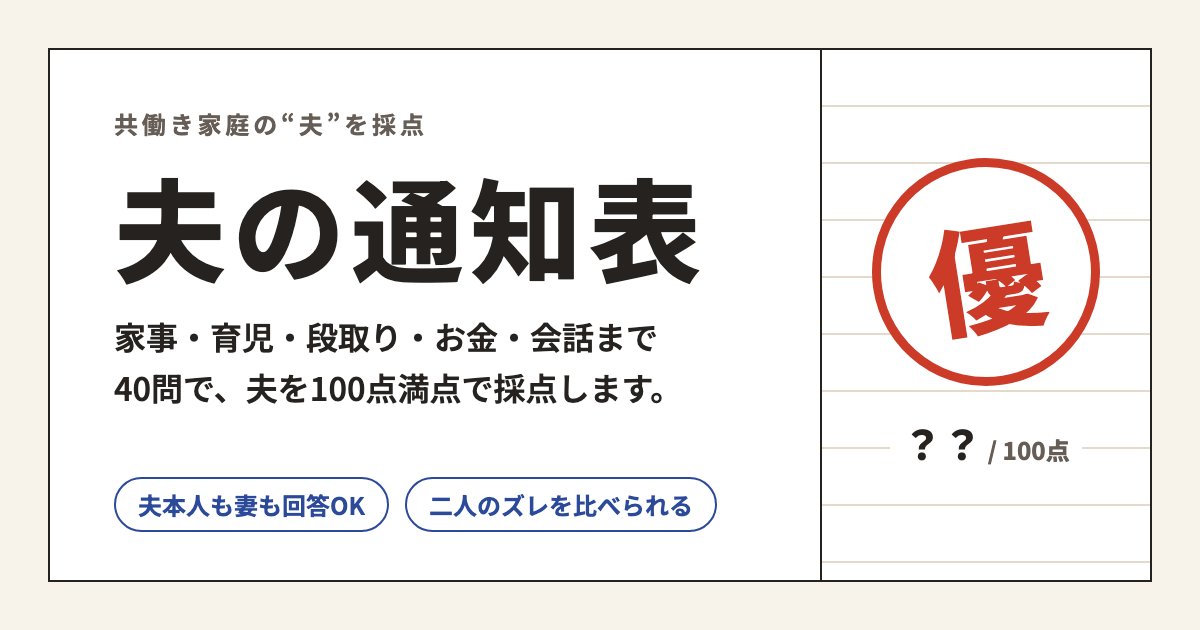
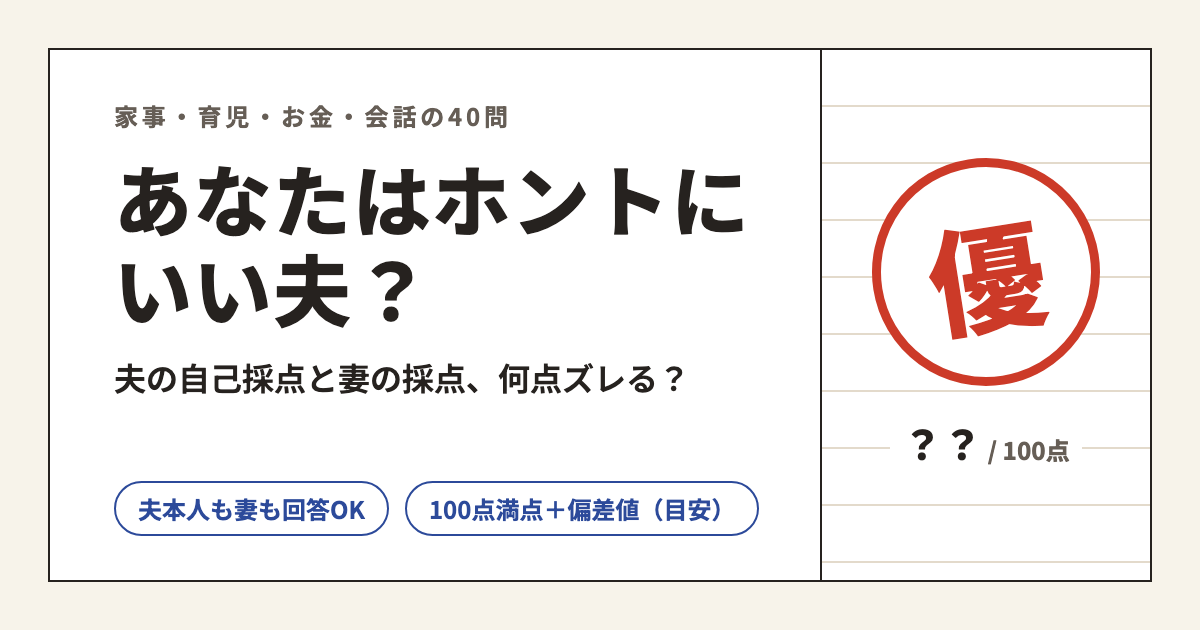
feat: 名前を「あなたはホントにいい夫？」にし、公開先を Vercel（iiotto.vercel.app）にする

Changed region(s): [[0.0925, 0.2714, 0.6167, 0.6635], [0.0925, 0.754, 0.6167, 0.8746], [0.0925, 0.1508, 0.4317, 0.2413]]

diff --git a/app.js b/app.js
@@ -1,4 +1,4 @@
-/* 夫の通知表：画面の動き・採点・結果のURL共有。文言と配点は questions.js にあります */
+/* あなたはホントにいい夫？（夫の通知表）：画面の動き・採点・結果のURL共有。文言と配点は questions.js にあります */
 (() => {
 "use strict";
 const C = window.REPORT;
@@ -24,7 +24,7 @@ function save(o) { try { localStorage.setItem(KEY, JSON.stringify(o)); } catch (
 const other = m => (m === "h" ? "w" : "h");
 // 夫の名前（任意・10文字まで）。妻が答えるときは「夫は」を「◯◯さんは」にする。表示は必ず esc を通す
 const cleanName = s => String(s || "").replace(/[\u0000-\u001f<>]/g, "").trim().slice(0, 10);
-const titleOf = n => (n ? `${n}さんの通知表` : C.appName);
+const titleOf = n => (n ? `${n}さんの通知表` : C.resultName || C.appName);
 const fmt = (t, m, n) => t.replaceAll("{s}", m === "w" && n ? `${n}さん` : MODES[m].s).replaceAll("{w}", MODES[m].w);
 const esc = s => String(s).replace(/[&<>"]/g, c => ({ "&": "&amp;", "<": "&lt;", ">": "&gt;", '"': "&quot;" }[c]));
 const r1 = v => Math.round(v * 10) / 10;
@@ -117,9 +117,10 @@ function startView() {
   return `<header class="cover">
   <span class="cover-stamp" aria-hidden="true">優</span>
   <span class="label">家事・育児・お金・会話の${Q.length}問</span>
-  <h1>${esc(C.appName)}</h1>
-  <p>小さな子どもがいる共働き家庭を想定した、夫の採点アプリです。夫が自分で答えても、妻が夫について答えても使えます。採点されるのは夫だけです。</p>
-  <div class="meta small muted"><span>全${Q.length}問・1問ずつ選ぶだけ</span><span>${CATS.length}つの観点・100点満点</span><span>回答は送信せず、この端末と結果のURLの中だけ</span></div>
+  <h1>${(C.appNameWrap || C.appName).split("｜").map(t => `<span class="nb">${esc(t)}</span>`).join("")}</h1>
+  <p class="lead">夫の自己採点と、妻の採点。<br>何点ズレるか、比べてみませんか。</p>
+  <p>${Q.length}問に答えると、夫の点数・偏差値（目安）・次の一手が出ます。夫が自分で答えても、妻が夫について答えても使えます。採点されるのは夫だけです。</p>
+  <div class="meta small muted"><span>小さな子どもがいる共働き家庭向け</span><span>1問ずつ選ぶだけ・100点満点</span><span>回答は送信せず、この端末と結果のURLの中だけ</span></div>
  </header>
  ${st.notice ? `<div class="notice" role="alert">${esc(st.notice)}</div>` : ""}
  <section class="panel">
@@ -303,7 +304,7 @@ function resultView() {
 function summary(rec, res) {
   const top2 = res.steps.slice(0, 2);
   return [
-    `${titleOf(rec.n)}の結果です（回答：${MODES[rec.mode].label}・${fmtDate(rec.d)}）`,
+    `「${C.appName}」${titleOf(rec.n)}の結果です（回答：${MODES[rec.mode].label}・${fmtDate(rec.d)}）`,
     `合計 ${res.total}点（${res.rank.mark}・${res.rank.title}）`,
     `偏差値 ${res.hensa}・上位 約${res.top}%（仮の分布で計算した目安）`,
     "",
@@ -311,7 +312,7 @@ function summary(rec, res) {
     ...res.cats.map(c => `・${c.short} ${r1(c.pts)}/${c.points}`),
     ...(top2.length ? [RULE, "■ 次の一手", RULE, ...top2.map(s => `・${s.adv}`)] : []),
     "",
-    "結果を開く（あなたも答えると、二人の評価を比べられます）",
+    "結果を開く（あなたも答えると、二人の採点が何点ズレるか比べられます）",
     shareUrl(rec),
   ].join("\n");
 }

diff --git a/index.html b/index.html
@@ -3,22 +3,22 @@
 <head>
 <meta charset="utf-8">
 <meta name="viewport" content="width=device-width, initial-scale=1, viewport-fit=cover">
-<title>夫の通知表｜共働き家庭の夫を40問で採点</title>
-<meta name="description" content="家事・育児・段取り・お金・会話など8つの観点、40問で夫を100点満点で採点します。夫本人も妻も回答でき、二人の評価のズレも比べられます。回答は送信せず、端末と結果のURLの中だけに残ります。">
+<title>あなたはホントにいい夫？｜夫の自己採点と妻の採点を40問で比べる</title>
+<meta name="description" content="家事・育児・段取り・お金・会話の40問で、夫を100点満点で採点します。夫の自己採点と妻の採点が何点ズレるかも比べられます。回答は送信せず、端末と結果のURLの中だけに残ります。">
 <meta name="theme-color" content="#F7F3EA" media="(prefers-color-scheme: light)">
 <meta name="theme-color" content="#1A1816" media="(prefers-color-scheme: dark)">
 
 <!-- OGP（LINE・Xで共有したときの表示）
-     公開URLを変えるとき（独自ドメインにする・リポジトリ名を変える）は、下の og:url と og:image の2か所も直す -->
+     公開URLを変えるとき（独自ドメインにする・Vercel のプロジェクト名を変える）は、下の og:url と og:image の2か所も直す -->
 <meta property="og:type" content="website">
-<meta property="og:site_name" content="夫の通知表">
-<meta property="og:title" content="夫の通知表｜共働き家庭の夫を40問で採点">
-<meta property="og:description" content="家事・育児・段取り・お金・会話など8つの観点、40問で夫を100点満点で採点。夫本人も妻も答えられて、二人の評価のズレも比べられます。">
-<meta property="og:url" content="https://reliefkofu-prog.github.io/husband-report/">
-<meta property="og:image" content="https://reliefkofu-prog.github.io/husband-report/ogp.png">
+<meta property="og:site_name" content="あなたはホントにいい夫？">
+<meta property="og:title" content="あなたはホントにいい夫？｜夫の自己採点と妻の採点を40問で比べる">
+<meta property="og:description" content="家事・育児・段取り・お金・会話の40問で、夫を100点満点で採点。夫の自己採点と妻の採点、何点ズレるか比べてみませんか。">
+<meta property="og:url" content="https://iiotto.vercel.app/">
+<meta property="og:image" content="https://iiotto.vercel.app/ogp.png">
 <meta property="og:image:width" content="1200">
 <meta property="og:image:height" content="630">
-<meta property="og:image:alt" content="夫の通知表 ― 40問・8つの観点・100点満点">
+<meta property="og:image:alt" content="あなたはホントにいい夫？ ― 夫の自己採点と妻の採点を40問で比べる">
 <meta property="og:locale" content="ja_JP">
 <meta name="twitter:card" content="summary_large_image">
 

diff --git a/questions.js b/questions.js
@@ -1,5 +1,5 @@
 /* =========================================================
-   夫の通知表：質問・選択肢・アドバイス・配点
+   あなたはホントにいい夫？（夫の通知表）：質問・選択肢・アドバイス・配点
    文言を変えるときは、このファイルだけを直せば画面に反映されます。
 
    ・{s} … 夫が答えるときは「あなた」、妻が答えるときは「夫」に置き換わる
@@ -17,7 +17,11 @@ const OFTEN = ["いつも", "だいたい", "たまに", "ほとんどない"];
 
 window.REPORT = {
   version: 1,
-  appName: "夫の通知表",
+  appName: "あなたはホントにいい夫？",
+  // スタート画面の見出しで改行してよい区切り（｜の位置でだけ折り返す。なくてもよい）
+  appNameWrap: "あなたは｜ホントに｜いい夫？",
+  // 結果画面の見出し（名前を入れると「◯◯さんの通知表」になる）
+  resultName: "夫の通知表",
 
   // 回答者ごとの呼び方
   modes: {

diff --git a/style.css b/style.css
@@ -44,6 +44,10 @@ button:focus-visible,a:focus-visible{outline:3px solid var(--accent);outline-off
 
 /* start */
 .cover{display:flex;flex-direction:column;gap:16px;padding-block:12px 18px;border-bottom:2px solid var(--ink);position:relative}
+.cover h1{padding-right:72px}
+.cover h1 .nb{display:inline-block}
+@media (max-width:360px){.cover h1{padding-right:0}.cover .cover-stamp{display:none}}
+.cover .lead{font-size:clamp(16px,5.2vw,19px);word-break:auto-phrase;text-wrap:pretty;font-weight:700;line-height:1.6;margin:0}
 .cover .meta{display:flex;gap:8px 18px;flex-wrap:wrap}
 .cover-stamp{position:absolute;right:0;top:4px;width:64px;height:64px;border:3px solid var(--stamp);border-radius:50%;color:var(--stamp);display:grid;place-items:center;font-weight:800;font-size:30px;transform:rotate(-10deg)}
 .name-field{display:flex;flex-direction:column;gap:6px;font-weight:700;font-size:14px}
